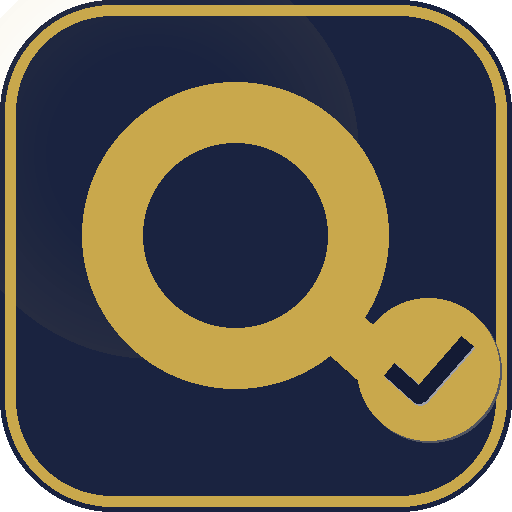
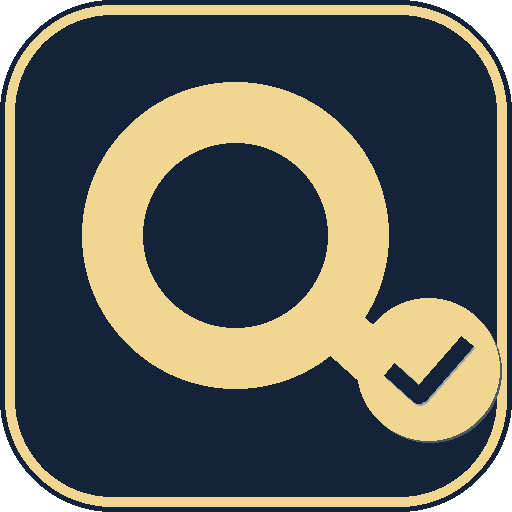
feat: paleta MIV oficial — fundo #13243A, dourado #F1D691

diff --git a/index.html b/index.html
@@ -7,18 +7,19 @@
   <meta name="apple-mobile-web-app-capable" content="yes" />
   <meta name="apple-mobile-web-app-status-bar-style" content="black-translucent" />
   <meta name="apple-mobile-web-app-title" content="QualifiQ" />
-  <meta name="theme-color" content="#1a2340" />
+  <meta name="theme-color" content="#13243A" />
   <link rel="manifest" href="manifest.json" />
   <title>QualifiQ · Your Vacation</title>
   <style>
     :root {
-      --navy:    #1a2340;
-      --navy2:   #1f2b4d;
-      --navy3:   #253358;
-      --gold:    #c9a84c;
-      --gold2:   #e2c46e;
-      --gold3:   #f0d898;
-      --border:  #2e3f6e;
+      --navy:    #13243A;
+      --navy2:   #1a2e48;
+      --navy3:   #1f3555;
+      --gold:    #F1D691;
+      --gold2:   #F1D691;
+      --gold3:   #f8ecc0;
+      --gold-dark: #8B6134;
+      --border:  #254060;
       --text:    #f0efe8;
       --muted:   #8899bb;
       --green:   #2ecc71;
